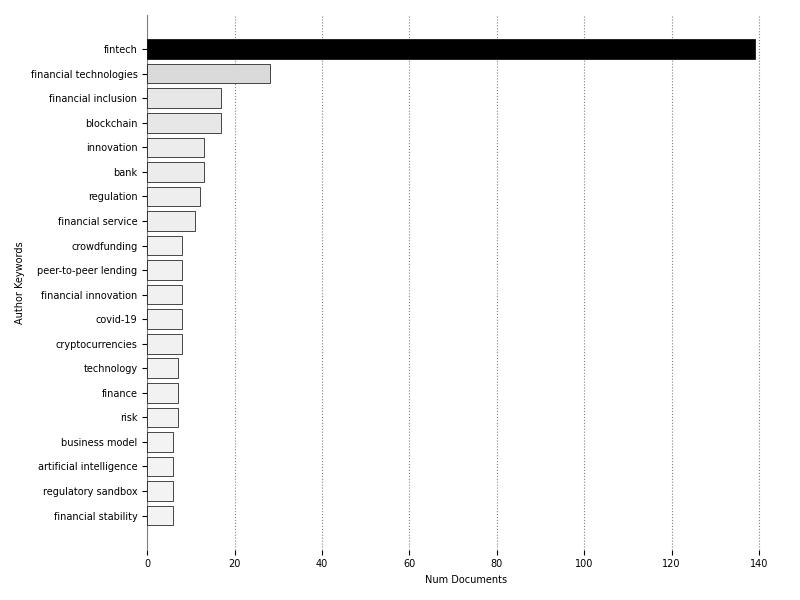
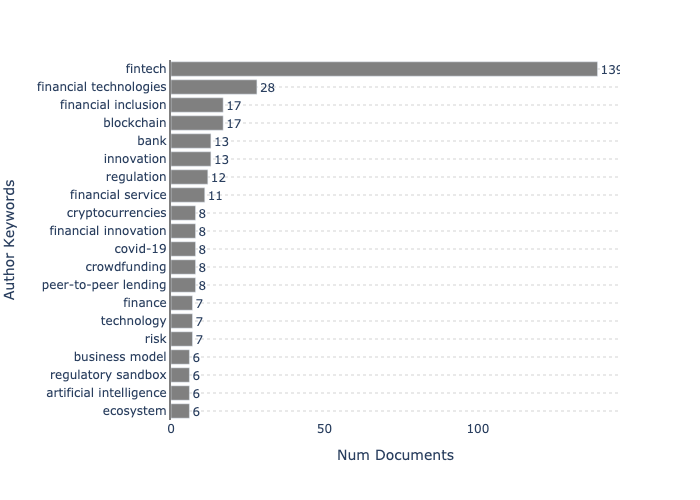
update column_chart to use plotly

diff --git a/techminer2/column_chart.py b/techminer2/column_chart.py
@@ -1,20 +1,21 @@
 """
-Cleveland Chart (updated to use Plotly)
+Column Chart (Updated to use Plotly)
 ===============================================================================
-
 
 >>> from techminer2 import *
 >>> directory = "data/"
->>> file_name = "sphinx/images/cleveland_chart.jpg"
->>> cleveland_chart(
-...    column="author_keywords", 
-...    top_n=20,
-...    directory=directory,
+>>> file_name = "sphinx/images/hbar_chart.png"
+>>> column_chart(
+...     'author_keywords',
+...     top_n=20,
+...     directory=directory,
 ... ).write_image(file_name)
 
-.. image:: images/cleveland_chart.jpg
+.. image:: images/hbar_chart.png
     :width: 700px
     :align: center
+
+
 
 """
 import plotly.express as px
@@ -22,7 +23,7 @@ import plotly.express as px
 from .column_indicators import column_indicators
 
 
-def cleveland_chart(
+def column_chart(
     column,
     top_n=None,
     min_occ=None,
@@ -46,16 +47,16 @@ def cleveland_chart(
     if max_occ is not None:
         indicators = indicators[indicators <= max_occ]
 
-    fig = px.scatter(
+    fig = px.bar(
         x=indicators.values,
         y=indicators.index,
         text=indicators.astype(str),
         labels={"x": "Num Documents", "y": column.replace("_", " ").title()},
+        orientation="h",
     )
-    fig.update_traces(marker=dict(size=10, color="black"))
-    fig.update_traces(textposition="middle right")
-    fig.update_traces(line=dict(color="black"))
+    fig.update_traces(textposition="outside")
     fig.update_layout(paper_bgcolor="white", plot_bgcolor="white")
+    fig.update_traces(marker_color="gray")
     fig.update_yaxes(
         linecolor="gray",
         linewidth=2,

diff --git a/techminer2/__init__.py b/techminer2/__init__.py
@@ -88,7 +88,7 @@ from .find_keyword import find_keyword
 from .find_string import find_string
 from .gantt_chart import gantt_chart
 from .growth_indicators import growth_indicators
-from .hbar_chart import hbar_chart
+from .hbar_chart import column_chart
 from .heat_map import heat_map
 from .impact_indicators import impact_indicators
 from .import_references import import_references
